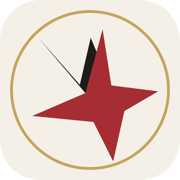
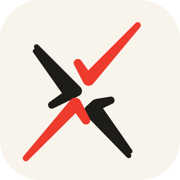
Déploiement de Pro Cast v9.2.1

Changed region(s): [[0.0556, 0.0556, 0.9444, 0.9444]]

diff --git a/app.js b/app.js
@@ -1,5 +1,5 @@
 const defaults=[{id:1,title:"Finaliser la proposition créative",role:"headliner",nature:"urgent",duration:"45 min",done:false,due:"",positive:"",negative:"",order:0},{id:2,title:"Répondre aux messages importants",role:"supporting",nature:"todo",duration:"15 min",done:false,due:"",positive:"",negative:"",order:1},{id:3,title:"Réserver le train pour Lyon",role:"supporting",nature:"desire",duration:"10 min",done:false,due:"",positive:"",negative:"",order:2},{id:4,title:"Classer les notes de la semaine",role:"extra",nature:"waiting",duration:"5 min",done:false,due:"",positive:"",negative:"",order:3}];
-const $=id=>document.getElementById(id),today=()=>new Date().toISOString().slice(0,10),weekKey=dateValue=>{const d=dateValue?new Date(`${dateValue}T12:00:00`):new Date(),m=new Date(d);m.setDate(d.getDate()-((d.getDay()+6)%7));return m.toISOString().slice(0,10)};
+const $=id=>document.getElementById(id),localDateKey=date=>`${date.getFullYear()}-${String(date.getMonth()+1).padStart(2,"0")}-${String(date.getDate()).padStart(2,"0")}`,today=()=>localDateKey(new Date()),weekKey=dateValue=>{const d=dateValue?new Date(`${dateValue}T12:00:00`):new Date(),m=new Date(d);m.setDate(d.getDate()-((d.getDay()+6)%7));return localDateKey(m)};
 const roleNames={headliner:"Tête d’affiche",supporting:"Second rôle",extra:"Figuration"},natureNames={todo:"À faire",desire:"J’ai envie",urgent:"Urgent",waiting:"En attente"},decisionNames={today:"Aujourd’hui",reschedule:"Nouvelle date",split:"Découper",abandon:"Abandonner",delegate:"Déléguer"};
 const normalizeAction=(a,t,i)=>typeof a==="string"?{id:`${t.id}-a-${i}`,title:a,done:false,due:"",durationMinutes:null,completedAt:"",status:"active",lastReviewed:""}:{id:a.id||`${t.id}-a-${i}`,title:a.title||"",done:!!a.done,due:a.due||"",durationMinutes:a.durationMinutes??null,completedAt:a.completedAt||"",status:a.status||"active",lastReviewed:a.lastReviewed||""};
 const normalizeTask=(t,i)=>({...t,nature:t.nature||"todo",actions:(Array.isArray(t.actions)?t.actions:[]).map((a,j)=>normalizeAction(a,t,j)),due:t.due||"",positive:t.positive||"",negative:t.negative||"",order:t.order!==undefined?t.order:i,lastReviewed:t.lastReviewed||"",outcome:t.outcome||"",scenario:t.scenario||"general",environment:t.environment||"pro",week:t.due?weekKey(t.due):(t.week||weekKey()),dailyRank:t.dailyRank!==undefined?t.dailyRank:(i<3?i+1:0)});
@@ -13,7 +13,7 @@ function episodeInfo(start=weekKey()){const d=new Date(`${start}T12:00:00`),thur
 function natureBadge(t){return `<span class="nature-badge ${t.nature}">${natureNames[t.nature]}</span>`}
 function spotlightIcon(){return `<svg class="spotlight-icon" viewBox="0 0 48 44" aria-hidden="true"><path class="spotlight-beam" d="M17 11 1 3v30l16-11z"/><path class="spotlight-lens" d="M16 10h4v13h-4z"/><path class="spotlight-body" d="M20 9h12c5 0 9 3 9 7s-4 7-9 7H20z"/><path class="spotlight-cap" d="M40 13h5v6h-5"/><path class="spotlight-yoke" d="M23 24v4h11v-6"/><path class="spotlight-stand" d="M28.5 28v5m0 0-8 9m8-9 8 9"/><path class="spotlight-rays" d="m11 6-4-4M10 17H4m8 9-4 4"/></svg>`}
 const activeAction=a=>!a.done&&!["abandoned","delegated"].includes(a.status);
-function reviewItems(){const sunday=new Date().getDay()===0,items=[];tasks.filter(t=>!t.done&&t.environment===currentEnvironment).forEach(t=>{if(t.actions.length)t.actions.forEach(a=>{if(!activeAction(a)||a.lastReviewed===today())return;if(a.due&&a.due<today())items.push({task:t,action:a,kind:"late"});else if(sunday&&!a.due)items.push({task:t,action:a,kind:"weekly"})});else if(t.due&&t.due<today()&&t.lastReviewed!==today())items.push({task:t,action:null,kind:"late"});});return items}
+function reviewItems(){const sunday=new Date().getDay()===0;return tasks.filter(t=>!t.done&&t.environment===currentEnvironment&&t.lastReviewed!==today()).filter(t=>t.due?t.due<today():sunday).map(t=>({task:t,action:null,kind:t.due?"late":"weekly"}))}
 function dueForReview(t){return reviewItems().some(item=>item.task.id===t.id)}
 function render(){
   const headline=tasks.find(t=>t.role==="headliner"&&!t.done);
@@ -35,14 +35,14 @@ function selectChip(id,value){$(id).value=value;document.querySelectorAll(`[data
 function scenarioOptions(selected){const available=scenarios.filter(s=>s.environment===currentEnvironment),choice=selected||currentScenarioContext||(available[0]?.id||"");$("taskScenario").innerHTML=available.map(s=>`<option value="${s.id}">${escapeHtml(s.name)}</option>`).join("");$("taskScenario").value=choice;$("scenarioChips").innerHTML=available.map(s=>`<button type="button" class="${s.id===choice?"selected":""}" data-scenario="${s.id}">${escapeHtml(s.emoji)} ${escapeHtml(s.name)}</button>`).join("");$("scenarioChips").querySelectorAll("button").forEach(b=>b.onclick=()=>{if(!currentScenarioContext)currentScenarioContext=b.dataset.scenario;$("taskScenario").value=b.dataset.scenario;$("scenarioChips").querySelectorAll("button").forEach(x=>x.classList.toggle("selected",x===b))})}
 function renderActionRows(){$("actionRows").innerHTML=editingActions.map((a,i)=>`<div class="action-edit-row"><span aria-hidden="true"></span><input value="${escapeHtml(a.title)}" placeholder="Décrire l’action" data-action-title="${i}"><input type="date" value="${a.due||""}" data-action-due="${i}" aria-label="Échéance de l’action"><button type="button" data-remove-action="${i}" aria-label="Supprimer">×</button></div>`).join("");document.querySelectorAll("[data-action-title]").forEach(el=>el.oninput=()=>editingActions[+el.dataset.actionTitle].title=el.value);document.querySelectorAll("[data-action-due]").forEach(el=>el.onchange=()=>editingActions[+el.dataset.actionDue].due=el.value);document.querySelectorAll("[data-remove-action]").forEach(el=>el.onclick=()=>{editingActions.splice(+el.dataset.removeAction,1);renderActionRows()})}
 function addActionRow(){editingActions.push({id:`action-${Date.now()}-${editingActions.length}`,title:"",done:false,due:"",durationMinutes:null,completedAt:"",status:"active",lastReviewed:""});renderActionRows();setTimeout(()=>$("actionRows").querySelector(".action-edit-row:last-child input")?.focus(),0)}
-function syncDateChoice(){const value=$("taskDue").value,d=new Date(),dates=[];[0,1].forEach(offset=>{const copy=new Date(d);copy.setDate(copy.getDate()+offset);dates.push(copy.toISOString().slice(0,10))});const sunday=new Date(d);sunday.setDate(sunday.getDate()+(7-sunday.getDay())%7);document.querySelectorAll(".date-chips button").forEach(b=>b.classList.remove("selected"));let selected;if(value===dates[0])selected=document.querySelector('[data-date-offset="0"]');else if(value===dates[1])selected=document.querySelector('[data-date-offset="1"]');else if(value===sunday.toISOString().slice(0,10))selected=document.querySelector("[data-date-sunday]");else if(value)selected=$("customDateButton");if(selected)selected.classList.add("selected");$("taskDue").classList.toggle("visible",!!value&&selected===$("customDateButton"))}
+function syncDateChoice(){const value=$("taskDue").value,d=new Date(),dates=[];[0,1].forEach(offset=>{const copy=new Date(d);copy.setDate(copy.getDate()+offset);dates.push(localDateKey(copy))});const sunday=new Date(d);sunday.setDate(sunday.getDate()+(7-sunday.getDay())%7);document.querySelectorAll(".date-chips button").forEach(b=>b.classList.remove("selected"));let selected;if(value===dates[0])selected=document.querySelector('[data-date-offset="0"]');else if(value===dates[1])selected=document.querySelector('[data-date-offset="1"]');else if(value===localDateKey(sunday))selected=document.querySelector("[data-date-sunday]");else if(value)selected=$("customDateButton");if(selected)selected.classList.add("selected");$("taskDue").classList.toggle("visible",!!value&&selected===$("customDateButton"))}
 function setTaskDate(value){$("taskDue").value=value;syncDateChoice()}
 function openNew(){dialogScrollY=window.scrollY;$("taskDialog").dataset.environment=currentEnvironment;$("taskForm").reset();$("editingId").value="";scenarioOptions(currentScenarioContext);selectChip("taskRole","supporting");selectChip("taskNature","todo");editingActions=[];renderActionRows();syncDateChoice();$("dialogEyebrow").textContent="NOUVELLE SCÈNE";$("dialogTitle").textContent="Qu’est-ce qui mérite ton attention ?";$("saveTask").textContent="Créer";$("deleteTask").classList.remove("visible");$("taskDialog").showModal()}
 function openEdit(id){dialogScrollY=window.scrollY;const t=tasks.find(x=>x.id===id);$("taskDialog").dataset.environment=t.environment;scenarioOptions(t.scenario);$("editingId").value=id;$("taskTitle").value=t.title;selectChip("taskRole",t.role);selectChip("taskNature",t.nature);editingActions=t.actions.map(a=>({...a}));renderActionRows();$("taskDue").value=t.due||"";syncDateChoice();$("taskPositive").value=t.positive||"";$("taskNegative").value=t.negative||"";$("dialogEyebrow").textContent="RÉÉCRIRE LA SCÈNE";$("dialogTitle").textContent="Ajuster la mise en scène";$("saveTask").textContent="Enregistrer";$("deleteTask").classList.add("visible");$("taskDialog").showModal()}
 function openReview(){reviewQueue=reviewItems();reviewIndex=0;if(reviewQueue.length){renderReview();$("reviewDialog").showModal()}}
 function renderReview(){const item=reviewQueue[reviewIndex];if(!item){$("reviewDialog").close();render();showToast("Le revisionnage est terminé.");return}const {task:t,action:a}=item;$("reviewProgress").textContent=`${reviewIndex+1} sur ${reviewQueue.length} · ${item.kind==="weekly"?"Rendez-vous du dimanche":"En retard"}`;$("reviewTaskTitle").textContent=a?`${a.title} — ${t.title}`:t.title;$("reviewConsequences").innerHTML=`<div class="consequence-item"><b>Ce que cela rend possible</b>${escapeHtml(t.positive||"À préciser")}</div><div class="consequence-item negative"><b>Si je laisse de côté</b>${escapeHtml(t.negative||"À préciser")}</div>`;$("decisionDetail").innerHTML="";document.querySelectorAll("[data-decision]").forEach(b=>b.classList.remove("selected"))}
-function recordDecision(type,extra={}){const item=reviewQueue[reviewIndex],target=item.action||item.task;decisions.push({type,nature:item.task.nature,environment:item.task.environment,date:new Date().toISOString(),taskId:item.task.id,actionId:item.action?.id});Object.assign(target,{lastReviewed:today(),...extra});reviewIndex++;renderReview()}
-function chooseDecision(type,button){document.querySelectorAll("[data-decision]").forEach(b=>b.classList.remove("selected"));button.classList.add("selected");const detail=$("decisionDetail");if(type==="today")return recordDecision(type,{due:today()});if(type==="abandon")return recordDecision(type,{status:"abandoned",outcome:"abandon"});if(type==="delegate")return recordDecision(type,{status:"delegated",outcome:"delegate"});if(type==="reschedule")detail.innerHTML=`<div class="detail-form"><input type="date" id="newDue" min="${today()}"><button onclick="confirmReschedule()">Fixer cette date</button></div>`;if(type==="split")detail.innerHTML=`<div class="detail-form"><input id="firstStep" placeholder="La plus petite première action"><button onclick="confirmSplit()">Créer l’action</button></div>`}
+function recordDecision(type,extra={}){const item=reviewQueue[reviewIndex],t=item.task;decisions.push({type,nature:t.nature,environment:t.environment,date:new Date().toISOString(),taskId:t.id});Object.assign(t,{lastReviewed:today(),...extra});if(extra.due)t.week=weekKey(extra.due);reviewIndex++;renderReview()}
+function chooseDecision(type,button){document.querySelectorAll("[data-decision]").forEach(b=>b.classList.remove("selected"));button.classList.add("selected");const detail=$("decisionDetail");if(type==="today")return recordDecision(type,{due:today()});if(type==="abandon")return recordDecision(type,{done:true,dailyRank:0,outcome:"abandon"});if(type==="delegate")return recordDecision(type,{done:true,dailyRank:0,outcome:"delegate"});if(type==="reschedule")detail.innerHTML=`<div class="detail-form"><input type="date" id="newDue" min="${today()}"><button onclick="confirmReschedule()">Fixer cette date</button></div>`;if(type==="split")detail.innerHTML=`<div class="detail-form"><input id="firstStep" placeholder="La plus petite première action"><button onclick="confirmSplit()">Créer l’action</button></div>`}
 function confirmReschedule(){const due=$("newDue").value;if(due)recordDecision("reschedule",{due})}
 function confirmSplit(){const title=$("firstStep").value.trim();if(!title)return;const item=reviewQueue[reviewIndex],t=item.task;t.actions.push(normalizeAction({title,due:today()},t,t.actions.length));recordDecision("split")}
 function renderStats(){const types=["today","reschedule","split","abandon","delegate"],total=types.reduce((n,k)=>n+decisions.filter(d=>d.type===k).length,0),completed=decisions.filter(d=>d.type==="completed").length;$("statsSummary").innerHTML=`<div class="stat-card"><b>${completed}</b><span>Tâches terminées</span></div><div class="stat-card"><b>${total}</b><span>Choix observés</span></div><div class="stat-card"><b>${decisions.length?Math.round(completed/decisions.length*100):0}%</b><span>Sorties terminées</span></div>`;$("statsBars").innerHTML=types.map(type=>{const n=decisions.filter(d=>d.type===type).length,p=total?Math.round(n/total*100):0;return `<div class="bar-row"><span>${decisionNames[type]}</span><div class="bar-track"><div class="bar-fill" style="width:${p}%"></div></div><b>${n}</b></div>`}).join("");const top=types.map(type=>[type,decisions.filter(d=>d.type===type).length]).sort((a,b)=>b[1]-a[1])[0];$("statsNote").textContent=total?`Pour l’instant, ton réflexe le plus fréquent est « ${decisionNames[top[0]].toLowerCase()} ». Ce n’est pas un verdict : simplement une tendance à observer.`:"Tes tendances apparaîtront ici après quelques revues. L’objectif n’est pas la performance, mais la compréhension."}
@@ -58,7 +58,7 @@ function renderMobile(){
   const priorities=tasks.filter(t=>!t.done&&t.environment===currentEnvironment&&t.dailyRank>0).sort((a,b)=>a.dailyRank-b.dailyRank).slice(0,3);
   const actionList=t=>t.actions.length?`<div class="scene-actions">${t.actions.filter(a=>a.status==="active").map(a=>`<button class="scene-action ${a.done?"done":""}" onclick="event.stopPropagation();toggleAction(${t.id},'${a.id}')"><span>${a.done?"✓":""}</span><b>${escapeHtml(a.title)}</b>${a.durationMinutes?`<small>${a.durationMinutes} min</small>`:""}</button>`).join("")}</div>`:"";
   $("priorityStack").innerHTML=[0,1,2].map(i=>{const t=priorities[i];return t?`<article class="priority-card"><span class="priority-number">TÊTE D’AFFICHE 0${i+1} · ${escapeHtml(scenarioName(t.scenario))}</span><button class="priority-check" onclick="completeTask(${t.id})">✓</button><h2>${escapeHtml(t.title)}</h2>${natureBadge(t)}${actionList(t)}<button class="priority-edit" onclick="openEdit(${t.id})">•••</button></article>`:`<div class="empty-priority">Tête d’affiche ${i+1} encore libre — choisis-la dans Semaine.</div>`}).join("");
-  const reviewable=reviewItems();$("mobileReviewCount").textContent=reviewable.length;$("mobileReview").disabled=reviewable.length===0;$("revisionBadge").textContent=reviewable.length;$("revisionCard").disabled=reviewable.length===0;$("revisionCard").classList.toggle("visible",reviewable.length>0);$("revisionTitle").textContent=new Date().getDay()===0?"Revisionnage du dimanche":"Revisionnage";$("revisionSubtitle").textContent=reviewable.length?`${reviewable.length} action${reviewable.length>1?"s":""} à revoir`:"Rien à revoir aujourd’hui";
+  const reviewable=reviewItems();$("mobileReviewCount").textContent=reviewable.length;$("mobileReview").disabled=reviewable.length===0;$("revisionBadge").textContent=reviewable.length;$("revisionCard").disabled=reviewable.length===0;$("revisionCard").classList.toggle("visible",reviewable.length>0);$("revisionTitle").textContent=new Date().getDay()===0?"Revisionnage du dimanche":"Revisionnage";$("revisionSubtitle").textContent=reviewable.length?`${reviewable.length} scène${reviewable.length>1?"s":""} à revoir`:"Rien à revoir aujourd’hui";
   const environmentScenarios=scenarios.filter(s=>s.environment===currentEnvironment);$("scenarioFilters").innerHTML=`<button class="emoji-filter ${scenarioFilter==="all"?"active":""}" onclick="setScenarioFilter('all')" aria-label="Tous les scénarios" title="Tous">✦</button>`+environmentScenarios.map(s=>`<button class="emoji-filter ${scenarioFilter===s.id?"active":""}" onclick="setScenarioFilter('${s.id}')" aria-label="${escapeHtml(s.name)}" title="${escapeHtml(s.name)}">${escapeHtml(s.emoji)}</button>`).join("");
   const weekly=tasks.filter(t=>t.environment===currentEnvironment&&(scenarioViewAll?scenarioFilter!=="all"&&t.scenario===scenarioFilter:t.week===weekKey()&&!t.done&&(scenarioFilter==="all"||t.scenario===scenarioFilter))).sort((a,b)=>scenarioViewAll?b.week.localeCompare(a.week)||Number(a.done)-Number(b.done)||a.order-b.order:Number(a.done)-Number(b.done)||a.order-b.order);
   $("weekKicker").textContent=scenarioViewAll?`SCÉNARIO · ${scenarioName(scenarioFilter)}`:episodeInfo().label.toUpperCase();
@@ -90,6 +90,6 @@ $("taskSearch").addEventListener("input",e=>searchTasks(e.target.value));
 document.querySelectorAll("[data-environment]").forEach(b=>b.onclick=()=>switchEnvironment(b.dataset.environment));
 document.querySelectorAll("[data-page]").forEach(b=>b.addEventListener("click",()=>window.scrollTo({top:0,behavior:"smooth"})));
 $("exportData").onclick=exportData;$("importData").onclick=()=>$("importFile").click();$("importFile").onchange=e=>{if(e.target.files[0])importData(e.target.files[0])};
-document.querySelectorAll(".choice-chips").forEach(group=>group.querySelectorAll("[data-value]").forEach(b=>b.onclick=()=>selectChip(group.dataset.choice,b.dataset.value)));$("addAction").onclick=addActionRow;document.querySelectorAll("[data-date-offset]").forEach(b=>b.onclick=()=>{const d=new Date();d.setDate(d.getDate()+Number(b.dataset.dateOffset));setTaskDate(d.toISOString().slice(0,10))});document.querySelector("[data-date-sunday]").onclick=()=>{const d=new Date(),delta=(7-d.getDay())%7;d.setDate(d.getDate()+delta);setTaskDate(d.toISOString().slice(0,10))};$("customDateButton").onclick=()=>{$("taskDue").classList.add("visible");$("taskDue").showPicker?.()};$("taskDue").onchange=syncDateChoice;document.querySelectorAll(".suggestion-chips").forEach(group=>group.querySelectorAll("button").forEach(b=>b.onclick=()=>{const field=$(group.dataset.target),text=b.textContent;field.value=field.value.includes(text)?field.value.replace(text,"").replace(/^, |, $/g,"").replace(", , ",", "):field.value+(field.value?", ":"")+text;b.classList.toggle("selected")}));
+document.querySelectorAll(".choice-chips").forEach(group=>group.querySelectorAll("[data-value]").forEach(b=>b.onclick=()=>selectChip(group.dataset.choice,b.dataset.value)));$("addAction").onclick=addActionRow;document.querySelectorAll("[data-date-offset]").forEach(b=>b.onclick=()=>{const d=new Date();d.setDate(d.getDate()+Number(b.dataset.dateOffset));setTaskDate(localDateKey(d))});document.querySelector("[data-date-sunday]").onclick=()=>{const d=new Date(),delta=(7-d.getDay())%7;d.setDate(d.getDate()+delta);setTaskDate(localDateKey(d))};$("customDateButton").onclick=()=>{$("taskDue").classList.add("visible");$("taskDue").showPicker?.()};$("taskDue").onchange=syncDateChoice;document.querySelectorAll(".suggestion-chips").forEach(group=>group.querySelectorAll("button").forEach(b=>b.onclick=()=>{const field=$(group.dataset.target),text=b.textContent;field.value=field.value.includes(text)?field.value.replace(text,"").replace(/^, |, $/g,"").replace(", , ",", "):field.value+(field.value?", ":"")+text;b.classList.toggle("selected")}));
 document.querySelectorAll("[data-minutes]").forEach(b=>b.onclick=()=>finishAction(Number(b.dataset.minutes)));$("cancelDuration").onclick=()=>{pendingDuration=null;$("durationDialog").close()};$("confirmFinishScene").onclick=()=>{const id=pendingFinishSceneId;pendingFinishSceneId=null;$("finishSceneDialog").close();completeTask(id)};$("keepSceneOpen").onclick=()=>{pendingFinishSceneId=null;$("finishSceneDialog").close()};
 $("taskForm").addEventListener("submit",e=>{e.preventDefault();const title=$("taskTitle").value.trim();if(!title)return;const role=$("taskRole").value,id=Number($("editingId").value),due=$("taskDue").value,formEnvironment=$("taskDialog").dataset.environment||currentEnvironment;if(role==="headliner")tasks.forEach(t=>{if(t.role==="headliner"&&!t.done&&t.id!==id)t.role="supporting"});const values={title,role,nature:$("taskNature").value,actions:editingActions.filter(a=>a.title.trim()).map(a=>({...a,title:a.title.trim()})),scenario:$("taskScenario").value,environment:formEnvironment,duration:"",due,week:weekKey(due),positive:$("taskPositive").value.trim(),negative:$("taskNegative").value.trim(),lastReviewed:""};if(id)Object.assign(tasks.find(t=>t.id===id),values);else tasks.push({id:Date.now(),...values,done:false,order:tasks.length,outcome:"",dailyRank:0});currentEnvironment=formEnvironment;currentScenarioContext=values.scenario;closeTaskDialog();render();showToast(id?"La scène a été réécrite.":"La scène entre en tournage.")});$("deleteTask").onclick=()=>{const id=Number($("editingId").value);tasks=tasks.filter(t=>t.id!==id);normalizePriorities();closeTaskDialog();render();showToast("Coupée au montage.")};$("resetDay").onclick=()=>{tasks=structuredClone(defaults).map((t,i)=>normalizeTask({...t,actions:[],scenario:"general",environment:"pro",week:weekKey(),dailyRank:i<3?i+1:0},i));decisions=[];episodes={};render();showToast("La scène est prête.")};if("serviceWorker" in navigator&&location.protocol.startsWith("http"))window.addEventListener("load",()=>navigator.serviceWorker.register("./service-worker.js").catch(()=>{}));render();

diff --git a/index.html b/index.html
@@ -20,13 +20,13 @@
   <link rel="stylesheet" href="v4.css">
   <link rel="stylesheet" href="drawer.css">
   <link rel="stylesheet" href="v9.css">
-  <link rel="stylesheet" href="v9-fixes.css">
+  <link rel="stylesheet" href="v9-fixes.css?v=9.2.1">
 </head>
 <body>
   <div class="mobile-app" id="mobileApp">
     <header class="mobile-header">
       <button class="more-button" id="scenarioTrigger" aria-label="Plus">•••</button>
-      <a class="mobile-brand" href="#" aria-label="Pro Cast — accueil"><svg class="mobile-brand-mark" viewBox="0 0 64 64" aria-hidden="true"><path class="mark-dark" d="M12 11L29 31 10 39l22 2 7 14 4-18 12-7-17-2-7-17-4 17z"/><path class="mark-red" d="M35 10l3 18 17 2-12 7-4 18-7-14-22-2 19-8z"/></svg><span>PRO <i>CAST</i></span></a>
+      <a class="mobile-brand" href="#" aria-label="Pro Cast — accueil"><svg class="mobile-brand-mark" viewBox="0 0 64 64" aria-hidden="true"><path class="mark-dark" d="M12 17l17 16-11 5 5-5-11-16zm40 38L35 38l4-4 7-1-4 4 11 17z"/><path class="mark-red" d="M48 8 32 30l-6-9 6 5L48 8zM10 56l16-22 6 9-6-5-16 18z"/></svg><span>PRO <i>CAST</i></span></a>
       <span class="header-spacer" aria-hidden="true"></span>
     </header>
     <div class="environment-switch" role="group" aria-label="Environnement">
@@ -65,8 +65,8 @@
     <header class="topbar">
       <a class="brand" href="#" aria-label="Accueil Pro Cast">
         <svg class="brand-mark" viewBox="0 0 64 64" aria-hidden="true">
-          <path class="mark-dark" d="M12 11L29 31 10 39l22 2 7 14 4-18 12-7-17-2-7-17-4 17z"/>
-          <path class="mark-red" d="M35 10l3 18 17 2-12 7-4 18-7-14-22-2 19-8z"/>
+          <path class="mark-dark" d="M12 17l17 16-11 5 5-5-11-16zm40 38L35 38l4-4 7-1-4 4 11 17z"/>
+          <path class="mark-red" d="M48 8 32 30l-6-9 6 5L48 8zM10 56l16-22 6 9-6-5-16 18z"/>
         </svg>
         <span class="wordmark"><b>PRO</b> <em>CAST</em></span>
       </a>

diff --git a/service-worker.js b/service-worker.js
@@ -1,5 +1,5 @@
-const CACHE="pro-cast-v9-2";
-const ASSETS=["./","./index.html","./styles.css","./v2.css","./v3.css","./v4.css","./drawer.css","./v9.css","./v9-fixes.css","./app.js","./manifest.webmanifest","./icons/icon-192.png","./icons/icon-512.png","./icons/apple-touch-icon.png"];
+const CACHE="pro-cast-v9-2-1";
+const ASSETS=["./","./index.html","./styles.css","./v2.css","./v3.css","./v4.css","./drawer.css","./v9.css","./v9-fixes.css?v=9.2.1","./app.js","./manifest.webmanifest","./icons/icon-192.png","./icons/icon-512.png","./icons/apple-touch-icon.png"];
 self.addEventListener("install",event=>event.waitUntil(caches.open(CACHE).then(cache=>cache.addAll(ASSETS)).then(()=>self.skipWaiting())));
 self.addEventListener("activate",event=>event.waitUntil(caches.keys().then(keys=>Promise.all(keys.filter(key=>key!==CACHE).map(key=>caches.delete(key)))).then(()=>self.clients.claim())));
 self.addEventListener("fetch",event=>{if(event.request.method!=="GET")return;event.respondWith(fetch(event.request).then(response=>{const copy=response.clone();caches.open(CACHE).then(cache=>cache.put(event.request,copy));return response}).catch(()=>caches.match(event.request).then(hit=>hit||caches.match("./index.html"))))});

diff --git a/v9-fixes.css b/v9-fixes.css
@@ -1,4 +1,8 @@
 @media(max-width:780px){
+  .mobile-app.environment-personal{--environment-bg:#f1e4e1}
+  .environment-personal .priority-card{background:#593638}
+  .environment-personal .priority-card:nth-child(2){background:#704448}
+  .environment-personal .priority-card:nth-child(3){background:#87565a}
   .priority-card h2,
   .mobile-task h3,
   .episode-heading b,
